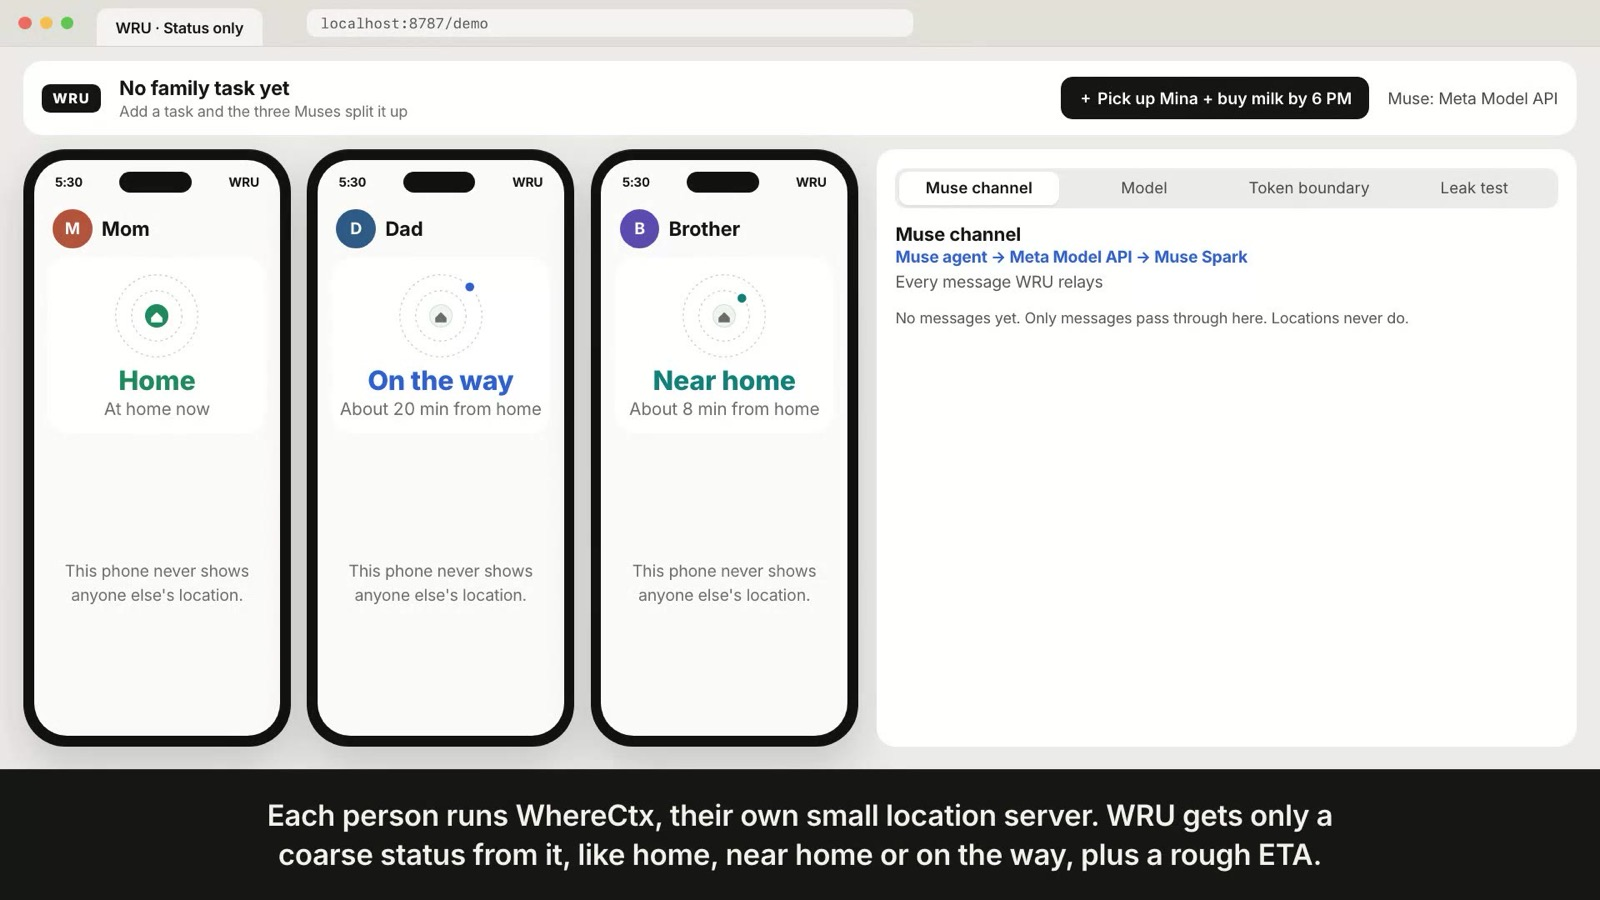
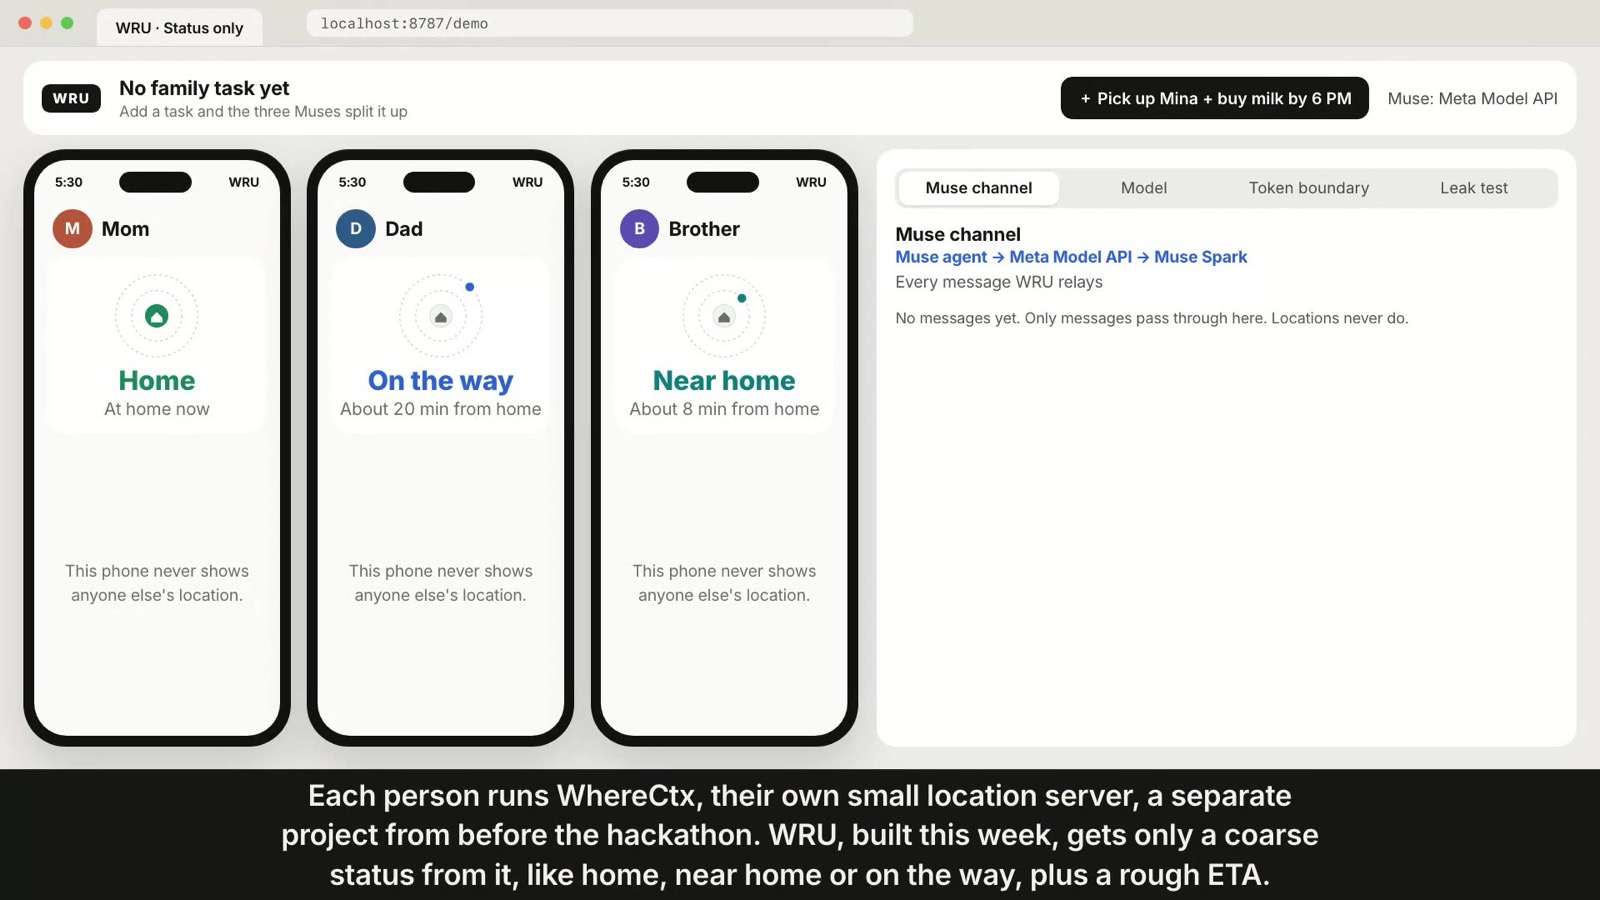
chore: submission fixes — MIT license, WhereCtx marked pre-existing
- Add MIT LICENSE and a License section in README.
- README: agents now "run on Muse Spark through the Meta Model API";
  WhereCtx is called out as a separate project that predates the hackathon.
- SUBMISSION: same WhereCtx note.
- Video: narration says WhereCtx is a separate pre-existing project and WRU
  was built this week; closing card marks WhereCtx "(pre-existing project)".
  Re-rendered at 176.3 s; screenshots and VIDEO_SCRIPT regenerated.

Changed region(s): [[0.1562, 0.8711, 0.8438, 0.9956]]

diff --git a/scripts/video/narration.ts b/scripts/video/narration.ts
@@ -54,7 +54,7 @@ export const SEGMENTS: Segment[] = [
     rubric: 'Impact · Demo',
     lines: [
       L('WRU, short for "where are you", lets each person\'s AI agent split the errands without sharing coordinates.'),
-      L('Each person runs WhereCtx, their own small location server. WRU gets only a coarse status from it, like home, near home or on the way, plus a rough ETA.'),
+      L('Each person runs WhereCtx, their own small location server, a separate project from before the hackathon. WRU, built this week, gets only a coarse status from it, like home, near home or on the way, plus a rough ETA.'),
       L('Mom is home,', { hl: 'mom' }),
       L('Dad is twenty minutes out,', { hl: 'dad' }),
       L('and Brother is near home.', { hl: 'sibling' }),

diff --git a/src/web/DemoPage.tsx b/src/web/DemoPage.tsx
@@ -626,7 +626,7 @@ function VideoScene({ scene }: { scene: VideoOverlay['scene'] & string }) {
     <div className="scene" role="presentation">
       <div className="scene-title">WRU</div>
       <ul className="scene-points">
-        <li><b>WhereCtx</b> status only, from each person's own server</li>
+        <li><b>WhereCtx</b> status only, from each person's own server (pre-existing project)</li>
         <li><b>Agent tokens</b> each token reads only its owner's status</li>
         <li><b>Muse</b> offer · counter · commit → roles only</li>
         <li><b>Privacy gate</b> no location text reaches the log, even if the agent knows it</li>

diff --git a/docs/VIDEO_SCRIPT.md b/docs/VIDEO_SCRIPT.md
@@ -1,4 +1,4 @@
-# Demo video script (about 2:53)
+# Demo video script (about 2:56)
 
 `npm run video` builds the draft video from this script and rewrites this document. It works in three steps:
 
@@ -12,14 +12,14 @@ The outputs are not committed. The narration source is `scripts/video/narration.
 | --- | --- | --- | --- |
 | 0:00 | Opening card | Dark card: WRU · typical location sharing (pins on a map) vs WRU (status chips) | Impact |
 | 0:06 | 1. Status only | Three phones (Mom home · Dad on the way, 20 min · Brother near home) | Impact · Demo |
-| 0:28 | 2. A task comes in | WRU bar shows the task (requested by Mom); each phone gets a "Family task" note | Demo |
-| 0:36 | 3. Three Muses negotiate | Phones + Muse channel; a recorded live Muse Spark run (samples/negotiation-hero-muse.json) appears message by message in step with the narration | Use of Meta AI Tooling · Demo |
-| 0:58 | 4. Only roles come out | WRU bar shows roles → Mom approves → each phone shows only its own role | Impact · Demo |
-| 1:07 | 5. What the model sees | Phones fade; the panel shows the request body (no status), the tool calls with Dad's token (own 200, Mom 403), the response JSON, "The model decides / WRU enforces", a real filter rewrite | Use of Meta AI Tooling · Technical Depth |
-| 1:35 | 6. Nobody can peek | Token boundary matrix 5×3 (only the diagonal is 200), the 403 cell highlighted | Technical Depth |
-| 1:50 | 7. Can the log reveal home? | Real Muse Spark run, Muse attacker. Three cards in order: gate off (50 logs, home 100% · school 70%) → gate on (9 logs, ceiling 28% · 32%, Muse attacker 4% · 4%, chance 4%) → agent knows its location (10 logs, ceiling 32% · 34%) | Technical Depth |
-| 2:34 | Self-hosting | Terminal: cat .env shows a masked, read-only WhereCtx token for Mom; npm start prints the family (mom=location.example.com, dad=sim, sibling=sim) | Impact · Technical Depth |
-| 2:48 | Closing card | Dark card: five-line summary + how the run was made | Use of Meta AI Tooling · Impact |
+| 0:32 | 2. A task comes in | WRU bar shows the task (requested by Mom); each phone gets a "Family task" note | Demo |
+| 0:40 | 3. Three Muses negotiate | Phones + Muse channel; a recorded live Muse Spark run (samples/negotiation-hero-muse.json) appears message by message in step with the narration | Use of Meta AI Tooling · Demo |
+| 1:02 | 4. Only roles come out | WRU bar shows roles → Mom approves → each phone shows only its own role | Impact · Demo |
+| 1:11 | 5. What the model sees | Phones fade; the panel shows the request body (no status), the tool calls with Dad's token (own 200, Mom 403), the response JSON, "The model decides / WRU enforces", a real filter rewrite | Use of Meta AI Tooling · Technical Depth |
+| 1:39 | 6. Nobody can peek | Token boundary matrix 5×3 (only the diagonal is 200), the 403 cell highlighted | Technical Depth |
+| 1:53 | 7. Can the log reveal home? | Real Muse Spark run, Muse attacker. Three cards in order: gate off (50 logs, home 100% · school 70%) → gate on (9 logs, ceiling 28% · 32%, Muse attacker 4% · 4%, chance 4%) → agent knows its location (10 logs, ceiling 32% · 34%) | Technical Depth |
+| 2:38 | Self-hosting | Terminal: cat .env shows a masked, read-only WhereCtx token for Mom; npm start prints the family (mom=location.example.com, dad=sim, sibling=sim) | Impact · Technical Depth |
+| 2:52 | Closing card | Dark card: five-line summary + how the run was made | Use of Meta AI Tooling · Impact |
 
 ## Narration
 
@@ -30,17 +30,17 @@ The outputs are not committed. The narration source is `scripts/video/narration.
 ### 0:06 1. Status only
 
 - WRU, short for "where are you", lets each person's AI agent split the errands without sharing coordinates.
-- Each person runs WhereCtx, their own small location server. WRU gets only a coarse status from it, like home, near home or on the way, plus a rough ETA.
+- Each person runs WhereCtx, their own small location server, a separate project from before the hackathon. WRU, built this week, gets only a coarse status from it, like home, near home or on the way, plus a rough ETA.
 - Mom is home,
 - Dad is twenty minutes out,
 - and Brother is near home.
 
-### 0:28 2. A task comes in
+### 0:32 2. A task comes in
 
 - Mom posts a task: pick up Mina from school and buy milk by 6 PM.
 - The rule: one task per person.
 
-### 0:36 3. Three Muses negotiate
+### 0:40 3. Three Muses negotiate
 
 - Mom hands it to the family's agents. Each one is a Muse running on Meta's Muse Spark, and this is a real run.
 - Each Muse reads only its own status, through a tool call.
@@ -48,12 +48,12 @@ The outputs are not committed. The narration source is `scripts/video/narration.
 - Mom and Brother both offer the milk.
 - Brother is near home, a better fit, so Mom steps back. Dad and Brother commit.
 
-### 0:58 4. Only roles come out
+### 1:02 4. Only roles come out
 
 - The result is just who does what, and Mom approves it once.
 - Each phone gets only its own task: pickup for Dad, milk for Brother.
 
-### 1:07 5. What the model sees
+### 1:11 5. What the model sees
 
 - Here is what Dad's Muse sends the model: no status at all, just the deadline and the messages so far.
 - It calls get presence with Dad's own token. Asking for Mom's status returns 403.
@@ -61,13 +61,13 @@ The outputs are not committed. The narration source is `scripts/video/narration.
 - WRU checks that the reply is valid and comes from the right agent.
 - If the model slips a location into its reason, WRU swaps it for a fixed template before logging.
 
-### 1:35 6. Nobody can peek
+### 1:39 6. Nobody can peek
 
 - Could one agent peek at another? Each one holds its own token.
 - We send fifteen real requests: five callers, each asking about all three people.
 - A request with Dad's token for Mom's status gets 403 Forbidden.
 
-### 1:50 7. Can the log reveal home?
+### 1:53 7. Can the log reveal home?
 
 - Could these logs reveal where the family lives? We ran fifty families across Seoul's twenty-five districts, with Muse as both the agents and the attacker.
 - The privacy gate lets through only status and a rough ETA. Without it, agents chat freely and every family's log is unique.
@@ -77,13 +77,13 @@ The outputs are not committed. The narration source is `scripts/video/narration.
 - The Muse attacker got 4 percent, the same as random guessing.
 - An agent that knows its exact location never gets it into the log, though its choices nudge the ceiling to 32 percent.
 
-### 2:34 Self-hosting
+### 2:38 Self-hosting
 
 - Each member adds a read-only token from their own WhereCtx. In this config, Mom's is real and the others are simulated.
 - One command starts the family server.
 - Exact locations never leave each person's own server.
 
-### 2:48 Closing card
+### 2:52 Closing card
 
 - WRU runs on Muse Spark through the Meta Model API.
 

diff --git a/README.md b/README.md
@@ -2,7 +2,7 @@
 
 **Family errands, split by AI agents without sharing coordinates.**
 
-WRU (short for "where are you") is a negotiation layer on top of WhereCtx, a personal location server. Family members never share coordinates. Each person's agent (a *Muse*, built to call Meta's Muse Spark model) reads only that person's coarse status from their own WhereCtx (`home`, `near_home` or `in_transit`, plus an ETA), and the agents split a family task with offer → counter → commit messages. WRU outputs only who does what.
+WRU (short for "where are you") is a negotiation layer on top of WhereCtx, a personal location server (a separate project that predates the hackathon; WRU itself was built during it). Family members never share coordinates. Each person's agent (a *Muse*, running on Meta's Muse Spark through the Meta Model API) reads only that person's coarse status from their own WhereCtx (`home`, `near_home` or `in_transit`, plus an ETA), and the agents split a family task with offer → counter → commit messages. WRU outputs only who does what.
 
 Submitted to the Meta Global AI Developer Hackathon (2026-10-26 to 11-04).
 
@@ -228,3 +228,7 @@ No coordinates, exact addresses or school names appear in API responses, logs or
 - The real WhereCtx integration was verified against a locally run WhereCtx; the demo video uses the simulator. With no maps key on that WhereCtx, ETA comes back empty (null).
 - Leak numbers come from one real Muse run, with Muse as the attacker, plus an attacker-independent ceiling. A rerun moves them by a few points; see [leak-report.md](leak-report.md).
 - State is in memory. Accounts and push notifications are out of scope.
+
+## License
+
+MIT. See [LICENSE](LICENSE).

diff --git a/docs/SUBMISSION.md b/docs/SUBMISSION.md
@@ -10,7 +10,7 @@ To decide "who's picking up the kid?", a family has to know where everyone is ri
 
 WRU assigns roles without any person, agent or log seeing coordinates.
 
-- **WhereCtx** (our existing personal location server) gives each person's coarse status only: `home` / `near_home` / `in_transit` and minutes to home. Detail and coordinate requests are refused, with `home_zone_refused` inside the home zone. Every person hosts their own.
+- **WhereCtx** (our personal location server, a separate project that predates the hackathon and is not part of this entry) gives each person's coarse status only: `home` / `near_home` / `in_transit` and minutes to home. Detail and coordinate requests are refused, with `home_zone_refused` inside the home zone. Every person hosts their own.
 - **Muse agents**: one per family member, running on Meta's Muse Spark (`muse-spark-1.3`) through the Meta Model API. Each agent reads its own status with Muse tool calling and answers with a strict `json_schema` object. Each agent reads only **its own** WhereCtx, through a token check. It never sees anyone else's status; all it knows about the others is their negotiation messages.
 - **WRU** relays the negotiation. A task arrives in the inbox, the agents trade offer, counter, commit and refuse messages in rounds, and the result is an assignment. After one human approval, each person is notified of their own role only.
 
